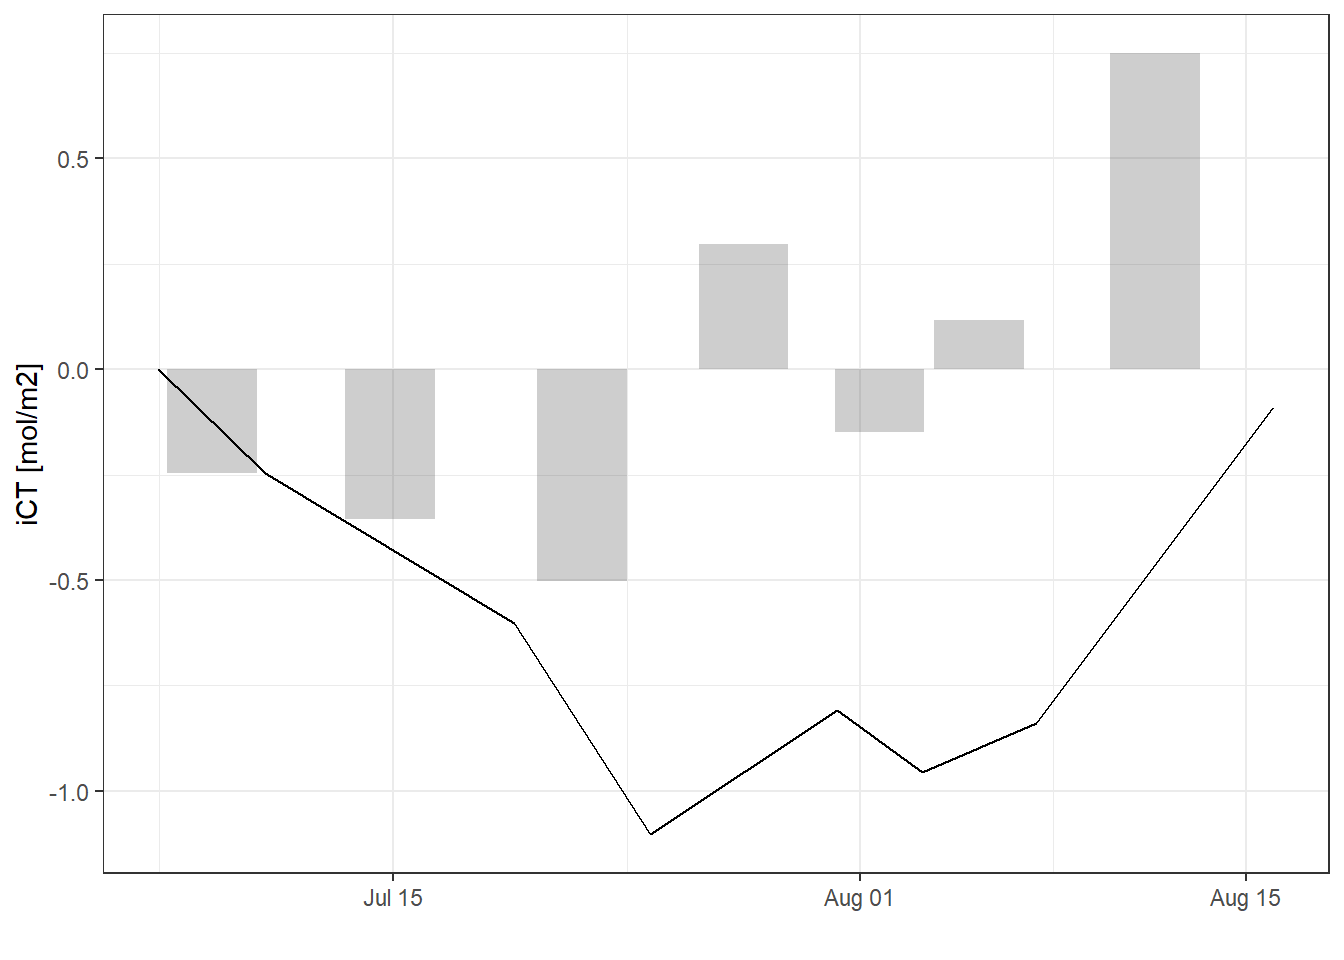
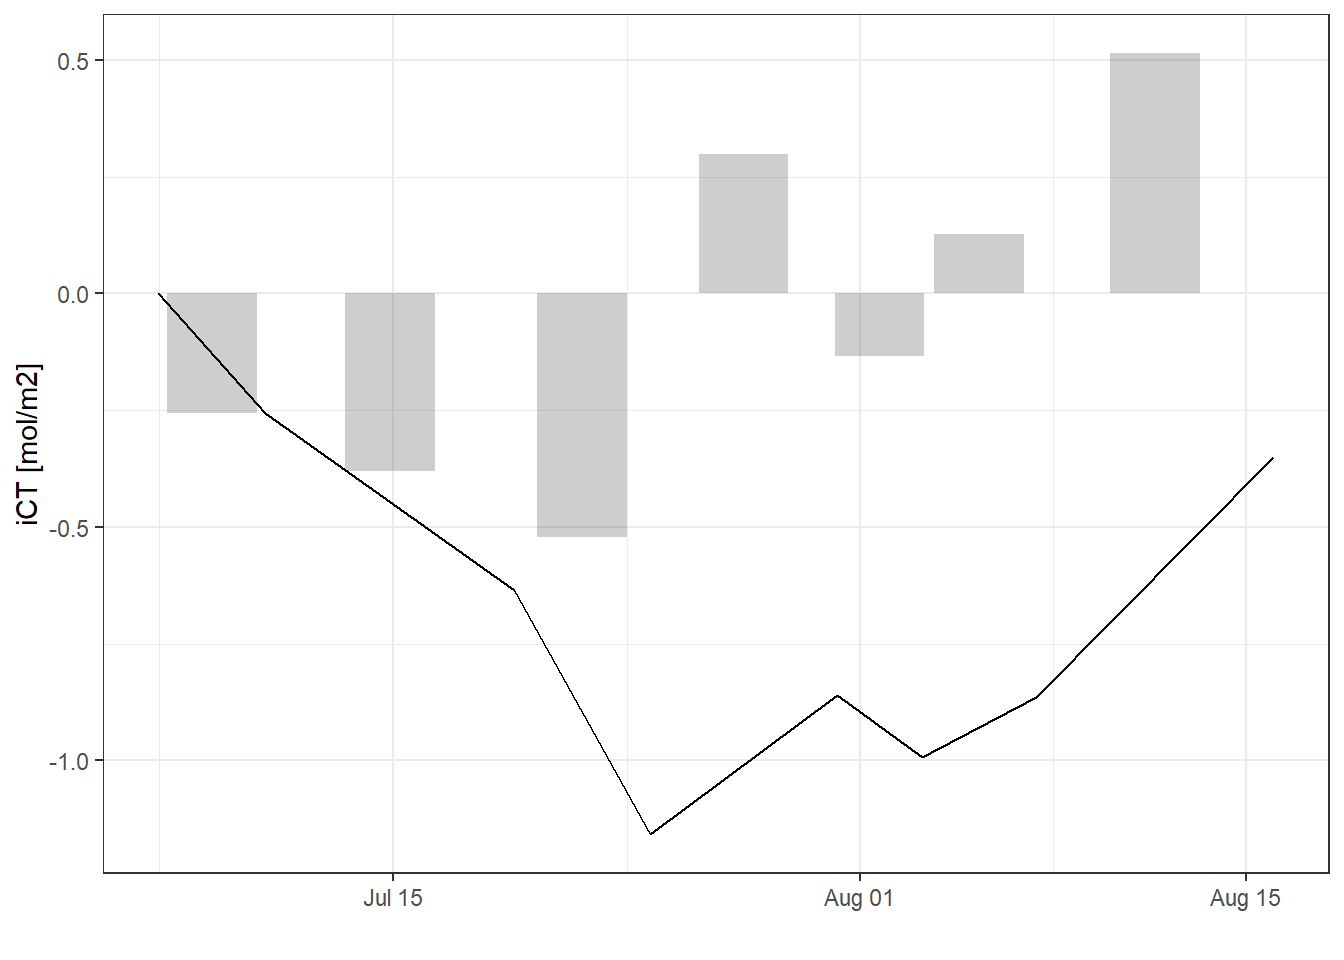
Build site.

diff --git a/docs/Finnmaid+GETM.html b/docs/Finnmaid+GETM.html
@@ -439,7 +439,7 @@ div.tocify {
 
 <h1 class="title toc-ignore">Finnmaid and GETM</h1>
 <h4 class="author">Jens Daniel Müller und Lara Sophie Burchardt</h4>
-<h4 class="date">21 April, 2020</h4>
+<h4 class="date">28 April, 2020</h4>
 
 </div>
 
@@ -464,7 +464,7 @@ div.tocify {
 <div class="tab-content">
 <div id="summary" class="tab-pane fade in active">
 <p>
-<strong>Last updated:</strong> 2020-04-21
+<strong>Last updated:</strong> 2020-04-28
 </p>
 <p>
 <strong>Checks:</strong> <span class="glyphicon glyphicon-ok text-success" aria-hidden="true"></span> 7 <span class="glyphicon glyphicon-exclamation-sign text-danger" aria-hidden="true"></span> 0
@@ -555,16 +555,16 @@ This reproducible <a href="http://rmarkdown.rstudio.com">R Markdown</a> analysis
 <div class="panel panel-default">
 <div class="panel-heading">
 <p class="panel-title">
-<a data-toggle="collapse" data-parent="#workflowr-checks" href="#strongRepositoryversionstrongahrefhttpsgithubcomjensdanielmuellerBloomSailtreea82b4fe4176517c93c72e0b8fbe3479fac0f957ftargetblanka82b4fea"> <span class="glyphicon glyphicon-ok text-success" aria-hidden="true"></span> <strong>Repository version:</strong> <a href="https://github.com/jens-daniel-mueller/BloomSail/tree/a82b4fe4176517c93c72e0b8fbe3479fac0f957f" target="_blank">a82b4fe</a> </a>
+<a data-toggle="collapse" data-parent="#workflowr-checks" href="#strongRepositoryversionstrongahrefhttpsgithubcomjensdanielmuellerBloomSailtree4f17cbb604b7f7a652aae4918a4cda276d021948targetblank4f17cbba"> <span class="glyphicon glyphicon-ok text-success" aria-hidden="true"></span> <strong>Repository version:</strong> <a href="https://github.com/jens-daniel-mueller/BloomSail/tree/4f17cbb604b7f7a652aae4918a4cda276d021948" target="_blank">4f17cbb</a> </a>
 </p>
 </div>
[2 lines of base64/hex data omitted]
 <div class="panel-body">
 <p>
 Great! You are using Git for version control. Tracking code development and connecting the code version to the results is critical for reproducibility.
 </p>
 <p>
-The results in this page were generated with repository version <a href="https://github.com/jens-daniel-mueller/BloomSail/tree/a82b4fe4176517c93c72e0b8fbe3479fac0f957f" target="_blank">a82b4fe</a>. See the <em>Past versions</em> tab to see a history of the changes made to the R Markdown and HTML files.
+The results in this page were generated with repository version <a href="https://github.com/jens-daniel-mueller/BloomSail/tree/4f17cbb604b7f7a652aae4918a4cda276d021948" target="_blank">4f17cbb</a>. See the <em>Past versions</em> tab to see a history of the changes made to the R Markdown and HTML files.
 </p>
 <p>
 Note that you need to be careful to ensure that all relevant files for the analysis have been committed to Git prior to generating the results (you can use <code>wflow_publish</code> or <code>wflow_git_commit</code>). workflowr only checks the R Markdown file, but you know if there are other scripts or data files that it depends on. Below is the status of the Git repository when the results were generated:
@@ -580,12 +580,8 @@ Ignored files:
     Ignored:    data/TinaV/
     Ignored:    data/_merged_data_files/
     Ignored:    data/_summarized_data_files/
-
-Untracked files:
-    Untracked:  output/Plots/Figures_publication/
-
-Unstaged changes:
-    Deleted:    analysis/license.Rmd
+    Ignored:    output/Plots/Figures_publication/.tmp.drivedownload/
+    Ignored:    output/Plots/Figures_publication/Appendix/
 
 </code></pre>
 <p>
@@ -624,6 +620,40 @@ Message
 </tr>
 </thead>
 <tbody>
+<tr>
+<td>
+Rmd
+</td>
+<td>
+<a href="https://github.com/jens-daniel-mueller/BloomSail/blob/4f17cbb604b7f7a652aae4918a4cda276d021948/analysis/Finnmaid+GETM.Rmd" target="_blank">4f17cbb</a>
+</td>
+<td>
+jens-daniel-mueller
+</td>
+<td>
+2020-04-28
+</td>
+<td>
+zeff for Finnmaid data
+</td>
+</tr>
+<tr>
+<td>
+html
+</td>
+<td>
+<a href="https://rawcdn.githack.com/jens-daniel-mueller/BloomSail/472c2b459f86cf55cddac51550b16020a0ed2e31/docs/Finnmaid+GETM.html" target="_blank">472c2b4</a>
+</td>
+<td>
+jens-daniel-mueller
+</td>
+<td>
+2020-04-21
+</td>
+<td>
+Build site.
+</td>
+</tr>
 <tr>
 <td>
 html
@@ -2838,38 +2868,8 @@ Hovmoeller plots of cumulative reconstructed changes in C<sub>T</sub>.
 </div>
 <pre class="r"><code>rm(bin_CT)</code></pre>
 </div>
-<div id="heat-penetration-depth-1" class="section level3">
-<h3><span class="header-section-number">4.2.7</span> Heat penetration depth</h3>
-<p>As an alternative approach to the integration over the MLD or the reconstruction of C<sub>T</sub> profiles, we can estimate the mean penetration depth of the warming signal, which was defined the surface change in temperature devided by the integrated change in seawater temperature across depth.</p>
-<pre class="r"><code>tem_diff_surface &lt;- fm_gt_3d %&gt;% 
-  filter(dep &lt; 6) %&gt;% 
-  select(date_time_ID, tem_diff_surface=tem_diff) %&gt;% 
-  group_by(date_time_ID) %&gt;% 
-  summarise_all(mean, na.rm=TRUE) %&gt;% 
-  ungroup()
-
-fm_gt_3d &lt;- full_join(fm_gt_3d, tem_diff_surface) 
-rm(tem_diff_surface)
-
-tem_depth &lt;- fm_gt_3d %&gt;%
-  filter(dep &lt; 18) %&gt;% 
-  group_by(date_time_ID) %&gt;% 
-  summarise(tem_diff_int = sum(tem_diff),
-            tem_diff_surface = mean(tem_diff_surface),
-            tem_depth = tem_diff_int/tem_diff_surface) %&gt;% 
-  ungroup()
-
-tem_depth %&gt;% 
-  ggplot(aes(date_time_ID, tem_depth))+
-  geom_hline(yintercept = 0)+
-  geom_line()+
-  geom_point()+
-  scale_y_reverse()</code></pre>
-<p><img src="figure/Finnmaid+GETM.Rmd/heat_penetration_depth-1.png" width="672" style="display: block; margin: auto;" /></p>
-</div>
-</div>
-<div id="ict-time-series" class="section level2">
-<h2><span class="header-section-number">4.3</span> iC<sub>T</sub> time series</h2>
+<div id="ict-time-series" class="section level3">
+<h3><span class="header-section-number">4.2.7</span> iC<sub>T</sub> time series</h3>
 <p>Total incremental and cumulative C<sub>T</sub> changes inbetween cruise dates were calculated for the upper 10 m of the water body.</p>
 <pre class="r"><code>iCT_dT &lt;- fm_gt_3d %&gt;% 
   filter(dep &lt; 10) %&gt;% 
@@ -2893,21 +2893,77 @@ iCT_dT %&gt;%
 <p><img src="figure/Finnmaid+GETM.Rmd/cumulative_directional_changes_profiles-1.png" width="672" style="display: block; margin: auto;" /></p>
 </div>
 </div>
-<div id="getm-windspeed" class="section level1">
-<h1><span class="header-section-number">5</span> GETM Windspeed</h1>
-<pre class="r"><code>gt_2d %&gt;% 
+<div id="heat-penetration-depth-1" class="section level2">
+<h2><span class="header-section-number">4.3</span> Heat penetration depth</h2>
+<p>As an alternative approach to the integration over the MLD or the reconstruction of C<sub>T</sub> profiles, we can estimate the mean penetration depth of the warming signal, which was defined the surface change in temperature devided by the integrated change in seawater temperature across depth.</p>
+<pre class="r"><code>tem_diff_surface &lt;- fm_gt_3d %&gt;% 
+  filter(dep &lt; 6) %&gt;% 
+  select(date_time_ID, tem_diff_surface=tem_diff) %&gt;% 
+  group_by(date_time_ID) %&gt;% 
+  summarise_all(mean, na.rm=TRUE) %&gt;% 
+  ungroup()
+
+fm_gt_3d &lt;- full_join(fm_gt_3d, tem_diff_surface) 
+rm(tem_diff_surface)
+
+max_date_time_ID &lt;- fm_ts_ID %&gt;%
+  filter(var == &quot;CT&quot;) %&gt;% 
+  slice(which.min(value)) %&gt;% 
+  pull(date_time_ID)
+
+tem_depth &lt;- fm_gt_3d %&gt;%
+  filter(dep &lt; 18) %&gt;% 
+  group_by(date_time_ID) %&gt;% 
+  summarise(tem_diff_int = sum(tem_diff),
+            tem_diff_surface = mean(tem_diff_surface),
+            tem_depth = tem_diff_int/tem_diff_surface) %&gt;% 
+  ungroup()
+
+mean_heat_pen_depth &lt;- tem_depth %&gt;% 
+  filter(date_time_ID &lt;= max_date_time_ID) %&gt;% 
+  summarise(mean(tem_depth, na.rm = TRUE)) %&gt;% 
+  pull()
+
+tem_depth %&gt;% 
+  ggplot(aes(date_time_ID, tem_depth))+
+  geom_hline(yintercept = 0)+
+  geom_hline(yintercept = mean_heat_pen_depth)+
+  geom_vline(xintercept = max_date_time_ID)+
+  geom_line()+
+  geom_point()+
+  scale_y_reverse()+
+  scale_x_datetime(breaks = &quot;week&quot;,
+                   date_labels = &quot;%b %d&quot;)</code></pre>
+<p><img src="figure/Finnmaid+GETM.Rmd/heat_penetration_depth-1.png" width="672" style="display: block; margin: auto;" /></p>
+<pre class="r"><code>iCT_zeff &lt;- fm_ts_ID %&gt;%
+  select(date_time_ID, var, value) %&gt;% 
+  pivot_wider(values_from = value, names_from = var) %&gt;% 
+  rename(SST = tem)
+
+iCT_zeff &lt;- iCT_zeff %&gt;% 
+  arrange(date_time_ID) %&gt;% 
+  mutate(date_time_ID_diff = as.numeric(date_time_ID - lag(date_time_ID)),
+         date_time_ID_ref  = date_time_ID - (date_time_ID - lag(date_time_ID))/2,
+         CT_diff = CT - lag(CT),
+         SST_diff = SST - lag(SST),
+         CT_i_diff = CT_diff * mean_heat_pen_depth / 1000,
+         CT_i_cum = cumsum(replace_na(CT_i_diff, 0)))</code></pre>
+<pre class="r"><code>iCT_zeff %&gt;% 
   ggplot()+
-  geom_rect(data = fixed_values, aes(xmin=start, xmax=end, ymin=-Inf, ymax=Inf), alpha=0.2)+
-  geom_line(aes(x= date_time, y = U_10, col=&quot;3-hourly&quot;))+
-  geom_line(data = gt_2d_daily,
-            aes(x= date_time, y = U_10, col=&quot;Daily mean&quot;))+
-  labs(y=&quot;U (m/s)&quot;, x = &quot;Date&quot;)+
-  scale_color_brewer(palette = &quot;Set1&quot;, name=&quot;&quot;, direction = -1)+
+  geom_hline(yintercept = 0)+
+  geom_point(aes(date_time_ID,  0), shape=21)+
+  geom_col(aes(date_time_ID_ref, CT_i_diff),
+           position = &quot;dodge&quot;, alpha=0.3)+
+  geom_line(aes(date_time_ID, CT_i_cum))+
+  scale_color_viridis_d(name=&quot;Depth limit (m)&quot;)+
+  scale_fill_viridis_d(name=&quot;Depth limit (m)&quot;)+
+  labs(y=&quot;iCT [mol/m2]&quot;, x=&quot;&quot;)+
   theme_bw()</code></pre>
-<p><img src="figure/Finnmaid+GETM.Rmd/plot_gt_winspeed-1.png" width="672" style="display: block; margin: auto;" /></p>
+<p><img src="figure/Finnmaid+GETM.Rmd/iCT_zeff-1.png" width="672" style="display: block; margin: auto;" /></p>
+</div>
 </div>
 <div id="open-tasks-questions" class="section level1">
-<h1><span class="header-section-number">6</span> Open tasks / questions</h1>
+<h1><span class="header-section-number">5</span> Open tasks / questions</h1>
 <ul>
 <li>Can delta T approach be improved by:
 <ul>

diff --git a/docs/BloomSail_surface.html b/docs/BloomSail_surface.html
@@ -439,7 +439,7 @@ div.tocify {
 
 <h1 class="title toc-ignore">MLD</h1>
 <h4 class="author">Jens Daniel Müller</h4>
-<h4 class="date">27 April, 2020</h4>
+<h4 class="date">28 April, 2020</h4>
 
 </div>
 
@@ -464,7 +464,7 @@ div.tocify {
 <div class="tab-content">
 <div id="summary" class="tab-pane fade in active">
 <p>
-<strong>Last updated:</strong> 2020-04-27
+<strong>Last updated:</strong> 2020-04-28
 </p>
 <p>
 <strong>Checks:</strong> <span class="glyphicon glyphicon-ok text-success" aria-hidden="true"></span> 7 <span class="glyphicon glyphicon-exclamation-sign text-danger" aria-hidden="true"></span> 0
@@ -555,16 +555,16 @@ This reproducible <a href="http://rmarkdown.rstudio.com">R Markdown</a> analysis
 <div class="panel panel-default">
 <div class="panel-heading">
 <p class="panel-title">
-<a data-toggle="collapse" data-parent="#workflowr-checks" href="#strongRepositoryversionstrongahrefhttpsgithubcomjensdanielmuellerBloomSailtreeb12f534fa9dcb68033f09228f64433936955adc7targetblankb12f534a"> <span class="glyphicon glyphicon-ok text-success" aria-hidden="true"></span> <strong>Repository version:</strong> <a href="https://github.com/jens-daniel-mueller/BloomSail/tree/b12f534fa9dcb68033f09228f64433936955adc7" target="_blank">b12f534</a> </a>
+<a data-toggle="collapse" data-parent="#workflowr-checks" href="#strongRepositoryversionstrongahrefhttpsgithubcomjensdanielmuellerBloomSailtree4f17cbb604b7f7a652aae4918a4cda276d021948targetblank4f17cbba"> <span class="glyphicon glyphicon-ok text-success" aria-hidden="true"></span> <strong>Repository version:</strong> <a href="https://github.com/jens-daniel-mueller/BloomSail/tree/4f17cbb604b7f7a652aae4918a4cda276d021948" target="_blank">4f17cbb</a> </a>
 </p>
 </div>
[2 lines of base64/hex data omitted]
 <div class="panel-body">
 <p>
 Great! You are using Git for version control. Tracking code development and connecting the code version to the results is critical for reproducibility.
 </p>
 <p>
-The results in this page were generated with repository version <a href="https://github.com/jens-daniel-mueller/BloomSail/tree/b12f534fa9dcb68033f09228f64433936955adc7" target="_blank">b12f534</a>. See the <em>Past versions</em> tab to see a history of the changes made to the R Markdown and HTML files.
+The results in this page were generated with repository version <a href="https://github.com/jens-daniel-mueller/BloomSail/tree/4f17cbb604b7f7a652aae4918a4cda276d021948" target="_blank">4f17cbb</a>. See the <em>Past versions</em> tab to see a history of the changes made to the R Markdown and HTML files.
 </p>
 <p>
 Note that you need to be careful to ensure that all relevant files for the analysis have been committed to Git prior to generating the results (you can use <code>wflow_publish</code> or <code>wflow_git_commit</code>). workflowr only checks the R Markdown file, but you know if there are other scripts or data files that it depends on. Below is the status of the Git repository when the results were generated:
@@ -580,9 +580,8 @@ Ignored files:
     Ignored:    data/TinaV/
     Ignored:    data/_merged_data_files/
     Ignored:    data/_summarized_data_files/
-
-Untracked files:
-    Untracked:  output/Plots/Figures_publication/
+    Ignored:    output/Plots/Figures_publication/.tmp.drivedownload/
+    Ignored:    output/Plots/Figures_publication/Appendix/
 
 </code></pre>
 <p>
@@ -621,6 +620,40 @@ Message
 </tr>
 </thead>
 <tbody>
+<tr>
+<td>
+Rmd
+</td>
+<td>
+<a href="https://github.com/jens-daniel-mueller/BloomSail/blob/4f17cbb604b7f7a652aae4918a4cda276d021948/analysis/BloomSail_surface.Rmd" target="_blank">4f17cbb</a>
+</td>
+<td>
+jens-daniel-mueller
+</td>
+<td>
+2020-04-28
+</td>
+<td>
+zeff for Finnmaid data
+</td>
+</tr>
+<tr>
+<td>
+html
+</td>
+<td>
+<a href="https://rawcdn.githack.com/jens-daniel-mueller/BloomSail/c7eb7ddc4266ac2635c6fe8cbcd123500979d40e/docs/BloomSail_surface.html" target="_blank">c7eb7dd</a>
+</td>
+<td>
+jens-daniel-mueller
+</td>
+<td>
+2020-04-27
+</td>
+<td>
+Build site.
+</td>
+</tr>
 <tr>
 <td>
 Rmd
@@ -1337,7 +1370,7 @@ Hovmoeller plots of daily reconstructed changes in C<sub>T</sub>.
 <h2><span class="header-section-number">4.7</span> iC<sub>T</sub> time series</h2>
 <p>Total incremental and cumulative C<sub>T</sub> changes inbetween cruise dates were calculated for the upper 10 m of the water body.</p>
 <pre class="r"><code>iCT_10 &lt;- ts_profiles_ID_long %&gt;%
-  filter(dep &lt; 12, 
+  filter(dep &lt; 17, 
          var == &quot;CT&quot;) %&gt;% 
   select(ID, date_time_ID, date_time_ID_ref, CT_diff=value_diff, CT_cum=value_cum) %&gt;% 
   group_by(ID, date_time_ID, date_time_ID_ref) %&gt;% 
